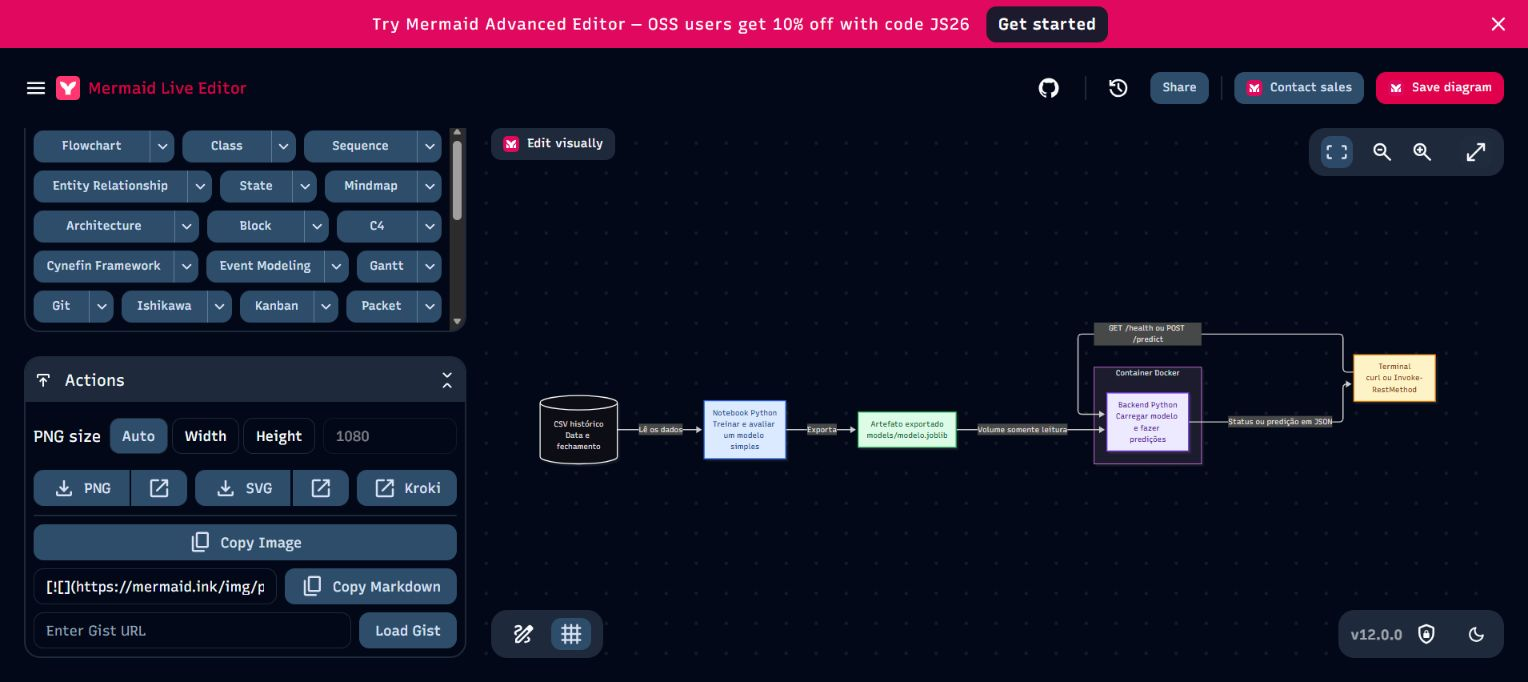
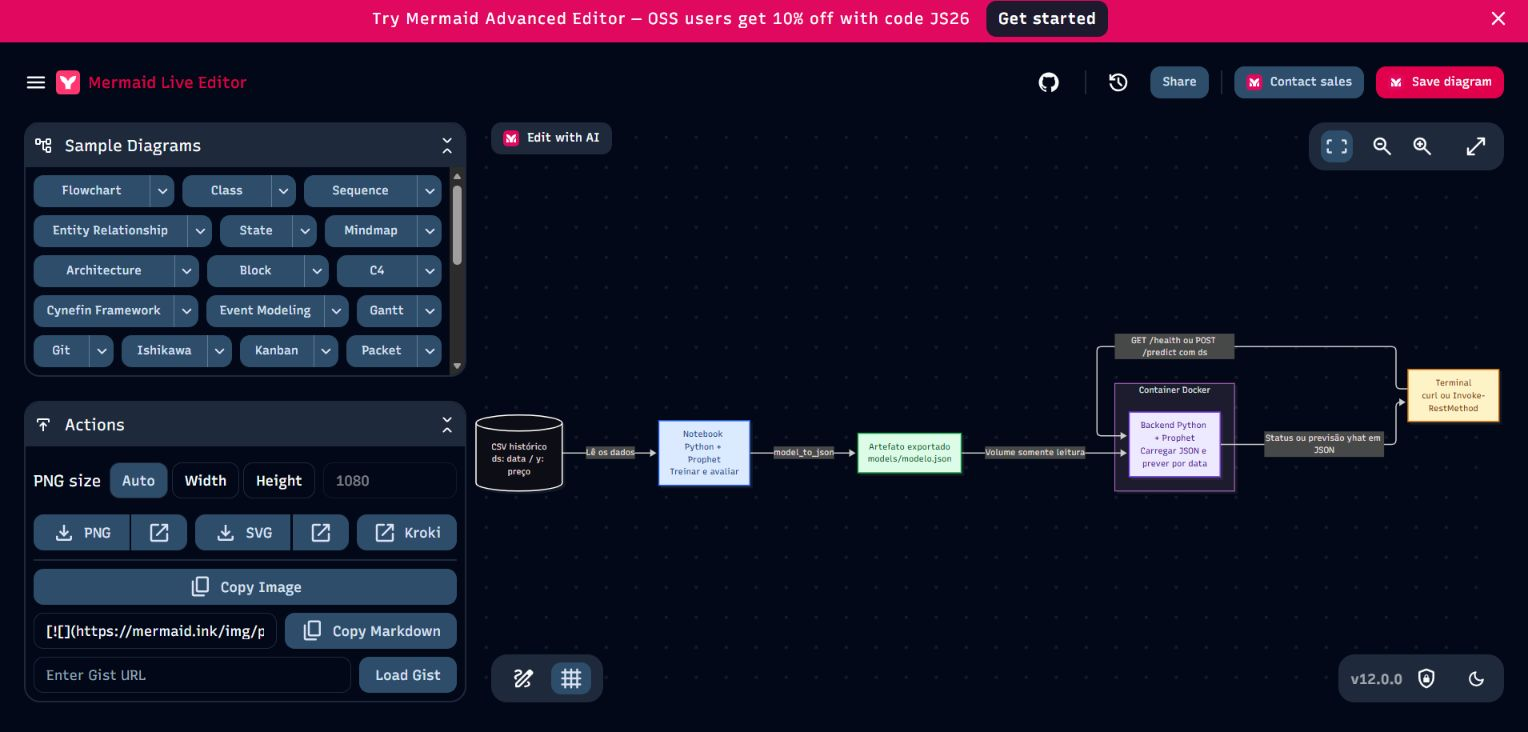
docs: adota Prophet e serializacao nativa em JSON

Changed region(s): [[0.0, 0.0, 1.0, 0.9545], [0.892, 0.9238, 0.9843, 0.9853], [0.3384, 0.9238, 0.3999, 0.9853]]

diff --git a/docs/arquitetura.md b/docs/arquitetura.md
@@ -1,6 +1,6 @@
 # Arquitetura simples
 
-A interface de uso será o **terminal**. A proposta tem um CSV pequeno, um notebook de treinamento, um modelo exportado e um backend Python em um único container Docker.
+A interface de uso será o **terminal**. A proposta tem um CSV pequeno, um notebook com Prophet, um modelo exportado em JSON e um backend Python em um único container Docker.
 
 O [esboço original](imagens/esboco-pipeline-original.png) permanece preservado. Esta versão em Mermaid acrescenta os componentes necessários à demonstração. Tudo abaixo é uma proposta; os componentes ainda não foram implementados.
 
@@ -12,21 +12,21 @@ Fonte editável: [arquitetura.mmd](arquitetura.mmd).
 
 ```mermaid
 flowchart LR
-    CSV[("CSV histórico<br/>Data e fechamento")]
-    Treino["Notebook Python<br/>Treinar e avaliar um modelo simples"]
-    Modelo["Artefato exportado<br/>models/modelo.joblib"]
+    CSV[("CSV histórico<br/>ds: data / y: preço")]
+    Treino["Notebook Python + Prophet<br/>Treinar e avaliar"]
+    Modelo["Artefato exportado<br/>models/modelo.json"]
 
     subgraph Docker["Container Docker"]
-        API["Backend Python<br/>Carregar modelo e fazer predições"]
+        API["Backend Python + Prophet<br/>Carregar JSON e prever por data"]
     end
 
     Terminal["Terminal<br/>curl ou Invoke-RestMethod"]
 
     CSV -->|Lê os dados| Treino
-    Treino -->|Exporta| Modelo
+    Treino -->|model_to_json| Modelo
     Modelo -->|Volume somente leitura| API
-    Terminal -->|"GET /health ou POST /predict"| API
-    API -->|"Status ou predição em JSON"| Terminal
+    Terminal -->|"GET /health ou POST /predict com ds"| API
+    API -->|"Status ou previsão yhat em JSON"| Terminal
 
     classDef treino fill:#dbeafe,stroke:#2563eb,color:#1e3a8a
     classDef modelo fill:#dcfce7,stroke:#16a34a,color:#14532d
@@ -47,25 +47,25 @@ Fonte editável: [pipeline.mmd](pipeline.mmd).
 ```mermaid
 flowchart LR
     Dados["Receber o CSV"] --> Preparacao["Explorar e limpar<br/>Ordenar por data"]
-    Preparacao --> Features["Definir entradas<br/>Sem usar dados futuros"]
-    Features --> Divisao["Separar treino e teste<br/>Em ordem cronológica"]
-    Divisao --> Treino["Treinar um modelo simples"]
-    Treino --> Avaliacao["Avaliar no teste reservado"]
-    Avaliacao --> Exportacao["Exportar modelo.joblib<br/>Com transformações, se usadas"]
+    Preparacao --> Colunas["Preparar ds e y<br/>Data e preço numérico"]
+    Colunas --> Divisao["Separar treino e teste<br/>Em ordem cronológica"]
+    Divisao --> Treino["Ajustar Prophet<br/>fit no treino"]
+    Treino --> Avaliacao["Prever nas datas do teste<br/>Comparar yhat com y"]
+    Avaliacao --> Exportacao["Exportar modelo.json<br/>model_to_json"]
 
     classDef processo fill:#dbeafe,stroke:#2563eb,color:#1e3a8a
     classDef cuidado fill:#fef3c7,stroke:#d97706,color:#78350f
     classDef saida fill:#dcfce7,stroke:#16a34a,color:#14532d
-    class Dados,Preparacao,Features,Treino processo
+    class Dados,Preparacao,Colunas,Treino processo
     class Divisao,Avaliacao cuidado
     class Exportacao saida
 ```
 
-O notebook lê o CSV, separa treino e teste em ordem cronológica, treina um modelo e registra a avaliação. Se houver transformações com parâmetros aprendidos, elas serão ajustadas no treino e exportadas junto do modelo. As entradas só podem usar informações disponíveis no momento da previsão.
+O notebook prepara `ds` (data) e `y` (preço), separa treino e teste em ordem cronológica e ajusta Prophet no treino. Para avaliar, prevê apenas nas datas do teste e compara `yhat` com o preço observado. O caso básico usará somente data e preço.
 
 ## Como o modelo chega ao backend
 
-O notebook grava `models/modelo.joblib`. A pasta `models/` será montada no container com acesso somente leitura. O backend carrega esse arquivo ao iniciar. O formato Joblib é a proposta inicial e depende da biblioteca de modelagem escolhida.
+O notebook grava `models/modelo.json` com `prophet.serialize.model_to_json`. A pasta `models/` será montada no container com acesso somente leitura. O backend carrega esse arquivo ao iniciar com `model_from_json`, seguindo a [serialização oficial](https://facebook.github.io/prophet/docs/additional_topics.html#saving-models).
 
 O terminal fará as chamadas HTTP, usando `curl` ou `Invoke-RestMethod` no PowerShell:
 
@@ -74,12 +74,14 @@ O terminal fará as chamadas HTTP, usando `curl` ou `Invoke-RestMethod` no Power
 | `GET /health` | Serviço disponível e modelo carregado |
 | `POST /predict` | Entrada enviada ao backend e predição recebida em JSON |
 
-O corpo da requisição será definido após escolher as entradas do modelo. Os comandos reproduzíveis e as respostas reais serão registrados no devlog durante a implementação.
+O contrato proposto para `POST /predict` é receber a data `ds` e retornar `ds` e `yhat` em JSON. Validar o formato da data e o horizonte aceito. Os comandos reproduzíveis e as respostas reais serão registrados no devlog durante a implementação.
 
 ## Aceite e decisões pendentes
 
 O aceite da implementação será: notebook executado, modelo exportado e carregado no container, verificação do serviço e uma predição solicitada pelo terminal. Registrar os comandos, a resposta e limitações no devlog. Verificar também o comportamento de entrada inválida e modelo ausente.
 
-Moeda/par, fonte, período, frequência, horizonte de previsão e biblioteca de modelagem permanecem abertos. A divisão inicial usa apenas treino e teste. Comparar vários modelos é uma extensão opcional.
+Prophet foi adotado na proposta após a recomendação do professor relatada pelo autor. Moeda/par, fonte, período, frequência e horizonte de previsão permanecem abertos. A divisão inicial usa apenas treino e teste. Comparar vários modelos é uma extensão opcional.
+
+Referência técnica: [Quick Start do Prophet](https://facebook.github.io/prophet/docs/quick_start.html).
 
 Referências: [enunciado](https://github.com/Murilo-ZC/Atividade-Ponderada-M7-2026-EC), [requisitos](requisitos.md) e [UML complementar em PlantUML](arquitetura.puml). O Mermaid é uma visão de fluxo entre componentes; a fonte PlantUML mantém a notação UML solicitada no enunciado.

diff --git a/docs/requisitos.md b/docs/requisitos.md
@@ -7,12 +7,12 @@ Fonte: [enunciado da atividade](https://github.com/Murilo-ZC/Atividade-Ponderada
 | ID | Resultado esperado | Evidência de aceite |
 | --- | --- | --- |
 | R01 | UML da solução mínima e troca de dados | CSV, notebook, artefato, único container de inferência e terminal; transferência por volume somente leitura |
-| R02 | Um notebook treina um modelo simples com CSV pequeno | Divisão cronológica treino/teste e exportação de `models/modelo.joblib`, com transformações necessárias se usadas |
+| R02 | Um notebook treina Prophet com CSV pequeno | Colunas `ds` e `y`, divisão cronológica treino/teste e exportação de `models/modelo.json` |
 | R03 | Backend Python em um único container Docker | Carrega o artefato pelo volume somente leitura; interfaces propostas `GET /health` e `POST /predict` |
 | R04 | Solicitação pelo terminal | Comando `curl` ou `Invoke-RestMethod` executado e resposta contendo predição |
 | R05 | Devlog no GitHub | Decisões, dificuldades, comandos e resultados verificáveis |
 
-A separação de treino e teste será cronológica, sem embaralhamento. Transformações que aprendem parâmetros, se usadas, serão ajustadas somente no treino. A precisão é secundária à demonstração da integração.
+A separação de treino e teste será cronológica, sem embaralhamento. A primeira versão usará Prophet com data e preço, conforme recomendação do professor relatada pelo autor. A precisão é secundária à demonstração da integração.
 
 O escopo mínimo é um notebook, um modelo simples, um artefato, um container de inferência e o terminal como cliente.
 
@@ -20,7 +20,7 @@ O escopo mínimo é um notebook, um modelo simples, um artefato, um container de
 
 - Moeda/par, fonte, frequência e período dos dados.
 - Horizonte de previsão e campos da entrada.
-- Modelo simples e transformações necessárias, se houver.
+- Configuração inicial do Prophet e métrica de avaliação.
 - Capacidade local para executar Docker, considerando o espaço livre.
 
 ## Aceite deste checkpoint

diff --git a/DEVLOG.md b/DEVLOG.md
@@ -56,3 +56,11 @@ Revisar a arquitetura de componentes e definir um recorte pequeno de dados antes
 - Os dois diagramas Mermaid foram renderizados no Mermaid Live no navegador. Essa verificação confirma a sintaxe e a apresentação dos diagramas, não a execução da solução.
 - Exportações SVG e capturas do editor foram preservadas em `docs/imagens/`.
 - [Captura da arquitetura](docs/imagens/arquitetura-mermaid-editor.jpg) e [captura do pipeline](docs/imagens/pipeline-mermaid-editor.jpg).
+
+### Recomendação do professor: Prophet
+
+- O autor informou que o professor recomendou o [Quick Start do Prophet](https://facebook.github.io/prophet/docs/quick_start.html). A proposta foi ajustada para usar essa biblioteca com `ds` (data) e `y` (preço).
+- O artefato proposto mudou de Joblib para `models/modelo.json`, usando `model_to_json` e `model_from_json`, conforme a [documentação de serialização](https://facebook.github.io/prophet/docs/additional_topics.html#saving-models).
+- O backend receberá a data `ds` e devolverá a previsão `yhat`. O terminal continua sendo a interface de uso.
+- A avaliação será feita apenas nas datas do teste reservado. O histórico incluído por padrão em `make_future_dataframe` não será tratado como resultado de teste.
+- Este checkpoint atualiza a documentação. Prophet ainda não foi instalado nem executado. A proposta anterior e suas capturas permanecem recuperáveis no [commit 2911e61](https://github.com/C-Icaro/ponderada-m7-predicao-moeda/commit/2911e61b310f7d18bfef6a49634dde743b5c7a42).

diff --git a/training/README.md b/training/README.md
@@ -2,6 +2,10 @@
 
 Reservado para um notebook de treinamento. Ainda não implementado.
 
-Proposta mínima: ler um CSV pequeno, ordenar a série, separar treino e teste cronologicamente, treinar um modelo simples e avaliar no teste. Transformações que aprendem parâmetros, se usadas, devem ser ajustadas somente no treino.
+Proposta mínima: ler um CSV pequeno, preparar `ds` (data) e `y` (preço numérico), ordenar a série, separar treino e teste cronologicamente e ajustar um modelo Prophet no treino.
 
-Exportar para `models/modelo.joblib` o modelo e as transformações necessárias à inferência, se usadas. Registrar fonte dos dados, horizonte, campos e unidades da entrada, dependências e instruções para executar novamente o notebook.
+Para avaliar, prever com `modelo.predict(teste[['ds']])` e comparar `yhat` com o preço observado nas mesmas datas. O recorte de teste fica fora do `fit`.
+
+Exportar para `models/modelo.json` com `prophet.serialize.model_to_json`. Registrar fonte dos dados, horizonte, unidade da cotação, dependências e instruções para executar novamente o notebook.
+
+Referências: [Quick Start](https://facebook.github.io/prophet/docs/quick_start.html) e [Saving models](https://facebook.github.io/prophet/docs/additional_topics.html#saving-models). Este é o plano de implementação, sem notebook executado neste checkpoint.

diff --git a/backend/README.md b/backend/README.md
@@ -2,8 +2,10 @@
 
 Reservado para o serviço Python e seu Dockerfile. A proposta usa um único container de inferência. Ainda não implementado.
 
-O serviço carregará `models/modelo.joblib` do host por um volume somente leitura, disponível no container como `/app/models/modelo.joblib`.
+O serviço carregará `models/modelo.json` do host por um volume somente leitura, disponível no container como `/app/models/modelo.json`.
 
 Proposta inicial de interface: `GET /health` para verificar disponibilidade e `POST /predict` para solicitar uma predição. Os caminhos são uma proposta, não endpoints já existentes.
 
-O serviço deve validar entradas e usar o mesmo contrato de preparação dos dados do treinamento.
+O serviço deve carregar `models/modelo.json` com `prophet.serialize.model_from_json`. A operação de predição receberá a data `ds`, chamará `modelo.predict` com essa coluna e devolverá `ds` e `yhat` em JSON. Fonte: [Quick Start do Prophet](https://facebook.github.io/prophet/docs/quick_start.html).
+
+Validar a data e o horizonte aceito antes da predição. O formato final da requisição e a configuração continuam sendo propostas.

diff --git a/README.md b/README.md
@@ -29,7 +29,9 @@ Construir uma demonstração que conecte dados históricos, treinamento, exporta
 
 ## Próxima decisão
 
-Definir moeda/par, fonte, frequência, período e horizonte previsto. A escolha ainda está aberta. A solução será simples: treinamento em notebook, backend Python em um container Docker e uso pelo terminal (`curl` ou `Invoke-RestMethod`). O desenvolvimento será registrado no devlog, com comandos e resultados efetivamente observados.
+Definir moeda/par, fonte, frequência, período e horizonte previsto. A proposta usa Prophet, recomendado pelo professor segundo o relato do autor: CSV com `ds` (data) e `y` (preço), treinamento em notebook, exportação para `models/modelo.json`, backend Python em um container Docker e uso pelo terminal (`curl` ou `Invoke-RestMethod`). O desenvolvimento será registrado no devlog, com comandos e resultados efetivamente observados.
+
+Referências técnicas: [Quick Start do Prophet](https://facebook.github.io/prophet/docs/quick_start.html) e [serialização oficial em JSON](https://facebook.github.io/prophet/docs/additional_topics.html#saving-models).
 
 ## Limitações
 

diff --git a/models/README.md b/models/README.md
@@ -1,7 +1,9 @@
 # Artefatos
 
-Reservado para `models/modelo.joblib`, a ser gerado pelo notebook. Nenhum artefato existe neste checkpoint.
+Reservado para `models/modelo.json`, a ser gerado pelo notebook. Nenhum artefato existe neste checkpoint.
 
-A proposta é salvar um modelo simples com as transformações necessárias à inferência, se usadas. O backend Python lerá esse arquivo por um volume Docker somente leitura, em `/app/models/modelo.joblib`.
+A proposta usa a serialização nativa do Prophet: `model_to_json` para exportar e `model_from_json` para carregar. O backend Python lerá esse arquivo por um volume Docker somente leitura, em `/app/models/modelo.json`.
+
+Essa escolha segue a [documentação oficial de Saving models](https://facebook.github.io/prophet/docs/additional_topics.html#saving-models), que desaconselha pickle para os modelos Prophet em Python.
 
 Registrar campos e unidades da entrada, horizonte, dependências e referência aos dados. Arquivos de modelos ficam ignorados por padrão; documentar no notebook como gerar novamente o artefato.

diff --git a/data/README.md b/data/README.md
@@ -6,4 +6,6 @@ Antes da coleta, registrar fonte/URL, moeda/par, moeda de cotação, período, f
 
 Planejar inicialmente um CSV pequeno. O tamanho depende do número de observações e colunas. Medir o arquivo real antes de ampliar o recorte.
 
+Contrato proposto para Prophet: converter a coluna de data para `ds` e a de preço de fechamento para `y`, numérica. A primeira versão usará apenas essas duas colunas, conforme o [Quick Start oficial](https://facebook.github.io/prophet/docs/quick_start.html).
+
 Os arquivos em `data/raw/` e `data/processed/` ficam fora do Git por padrão. Se um pequeno conjunto puder ser redistribuído, sua inclusão deve ser uma decisão explícita; caso contrário, documentar a obtenção.
